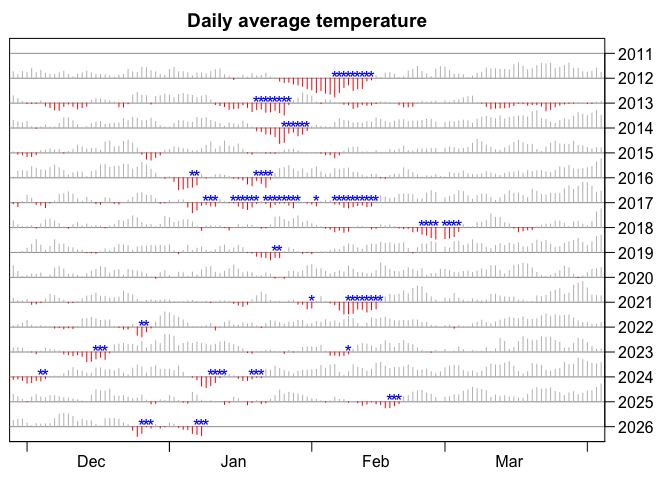
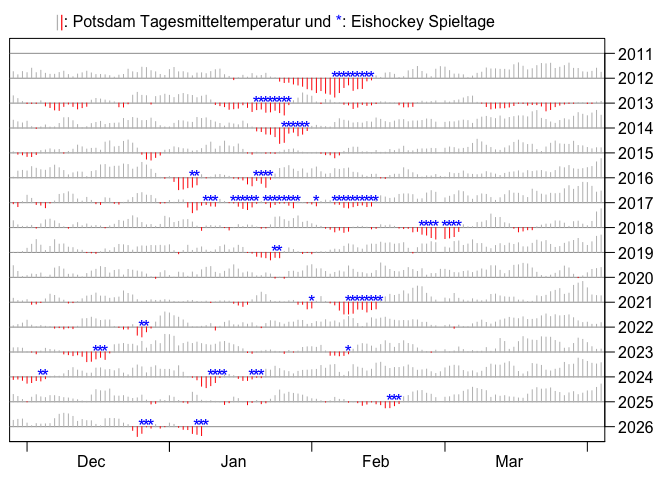
vis title improved

Changed region(s): [[0.0625, 0.0312, 0.75, 0.0625]]

diff --git a/README.md b/README.md
@@ -16,8 +16,8 @@ file](https://github.com/brry/ice/blob/master/Eishockey_Tage.txt)
 
 ### vis
 
-Here are the playable days (<span style="color:blue">\*</span>) along
-with temperature: ![](README_files/figure-gfm/icevis-1.png)<!-- -->
+Here are the playable days along with temperature:
+![](README_files/figure-gfm/icevis-1.png)<!-- -->
 
 ### predictive modelling
 
